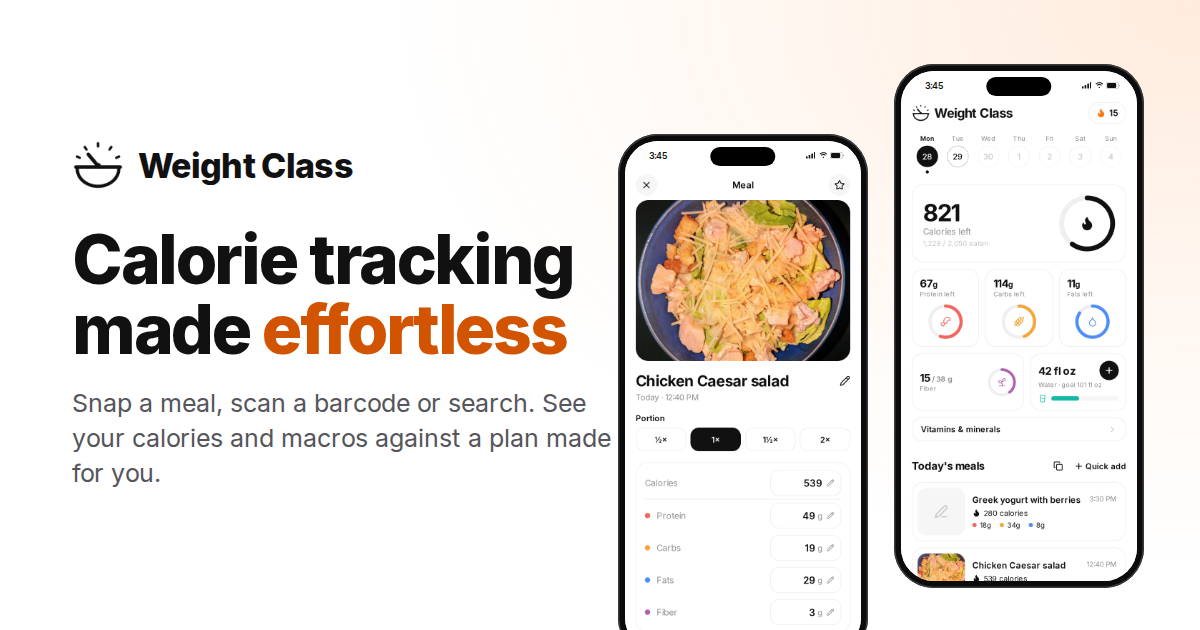
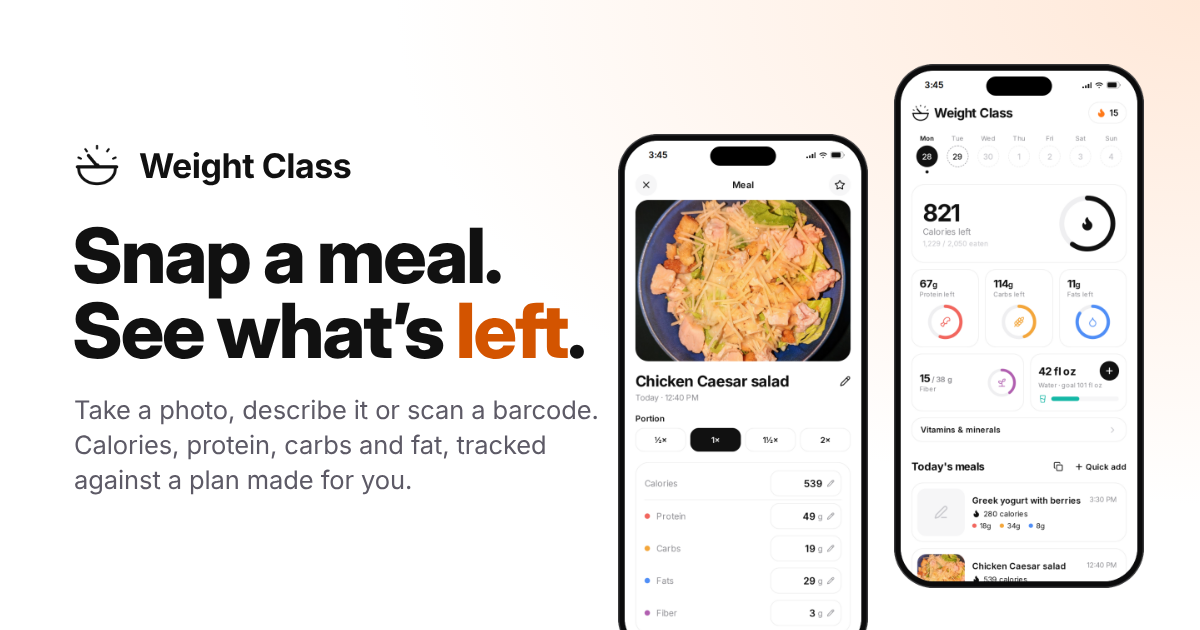
Social preview with the new headline: "Snap a meal. See what's left."
og.png keeps its layout (brand, headline, the meal and home phones) with the landing page's new headline and a
matching description. Its URL carries ?v=2 so link previews fetch the new image instead of a cached one.

Claude-Session: https://claude.ai/code/session_01KhiuoZKuLRax5va6ExMNc1

diff --git a/legal/index.html b/legal/index.html
@@ -17,10 +17,11 @@
     <meta property="og:title" content="Weight Class — Snap a meal. See what's left." />
     <meta
       property="og:description"
-      content="Snap a meal, scan a barcode or search. See your calories and macros against a plan made for you."
+      content="Take a photo, describe it or scan a barcode. Calories, protein, carbs and fat, tracked against a plan made for you."
     />
-    <!-- Absolute URL of the server that serves this site: update it with a custom domain. -->
-    <meta property="og:image" content="https://api-production-174d.up.railway.app/images/og.png" />
+    <!-- Absolute URL of the server that serves this site: update it with a custom domain. Raise ?v= when og.png
+         changes, so link previews fetch the new image. -->
+    <meta property="og:image" content="https://api-production-174d.up.railway.app/images/og.png?v=2" />
     <meta property="og:image:width" content="1200" />
     <meta property="og:image:height" content="630" />
     <meta

diff --git a/legal/SITE_SPEC.md b/legal/SITE_SPEC.md
@@ -157,8 +157,10 @@ with reduced motion), `body` 17px/1.6 on `--bg`, `img { max-width: 100%; display
 
 ## 6. Assets
 
-- Existing: `images/logo.png`, `app-icon.png`, `og.png`, and the framed phones `phone-home.png`,
+- Existing: `images/logo.png`, `app-icon.png`, and the framed phones `phone-home.png`,
   `phone-meal.png`, `phone-weight.png`, `phone-glp1.png` (600 × 1258, 1.0's screens, transparent corners).
+- `og.png` (1200 × 630), redone with this headline: the brand, "Snap a meal. See what’s left." ("left" in #d35400)
+  and the meal and home phones, as before. Its URL in `index.html` carries `?v=2`; raise it when the image changes.
 - To add when available: `images/app-store-badge.svg` (Apple's official badge).
 
 ## 7. Head
